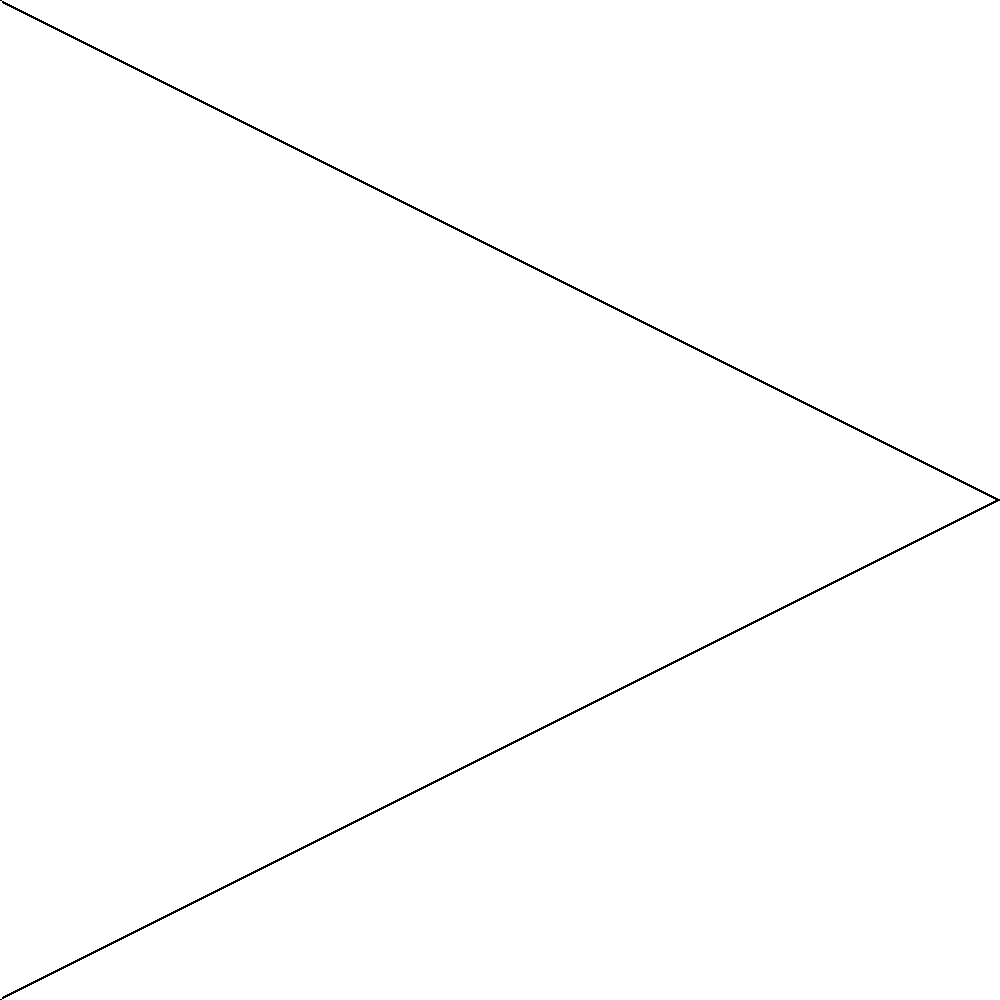
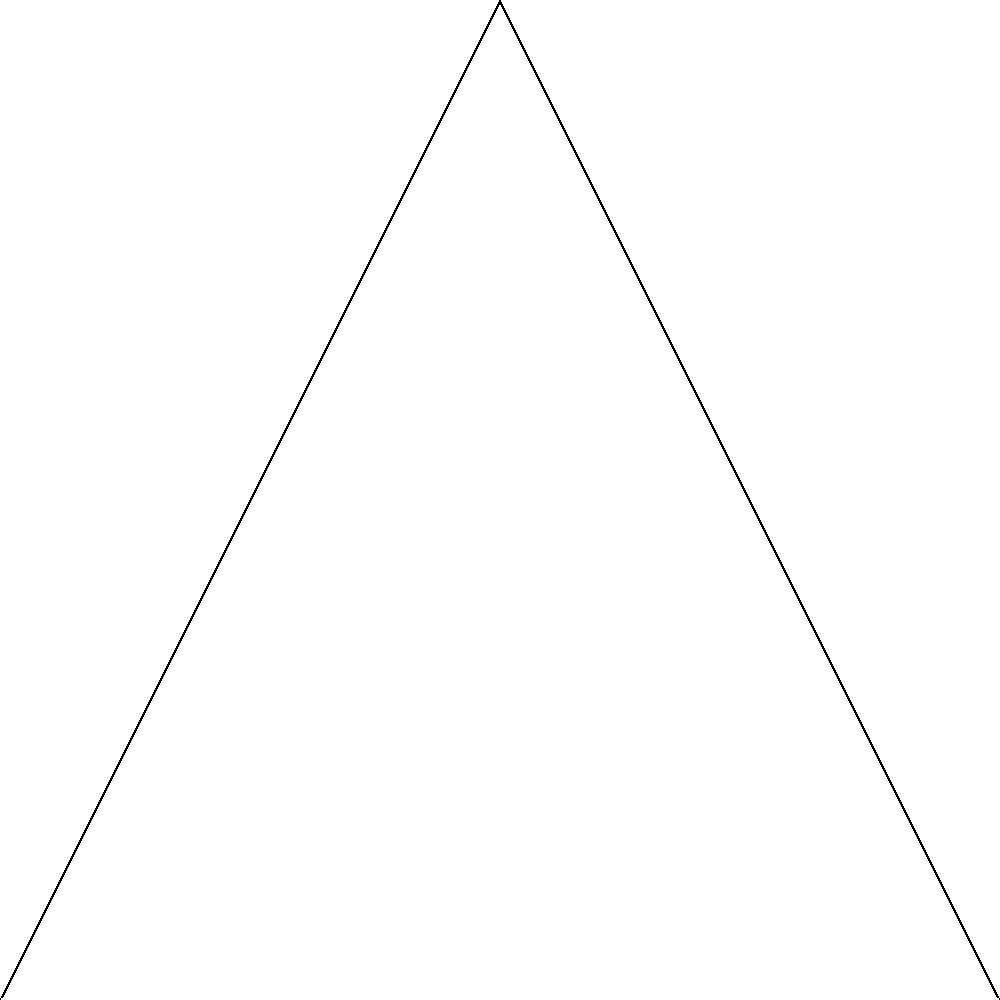
change orientation of sheet in pennon

diff --git a/app/resources/static/css/preview/pennon_20x30.css b/app/resources/static/css/preview/pennon_20x30.css
@@ -2,8 +2,8 @@
     box-sizing: initial;
 }
 .fb-container .page {
-    height: calc(30cm * 0.5);
-    width: calc(20cm * 0.5);
+    height: calc(20cm * 0.5);
+    width: calc(30cm * 0.5);
     border: 1px solid black;
     padding-left: calc(0.8cm * 0.5);
     padding-top: calc(0.8cm * 0.5);
@@ -13,17 +13,17 @@
 }
 .fb-container .photo {
     border: 1px solid black;
-    border-left: 1px solid transparent;
+    border-bottom: 1px solid transparent;
     float: left;
     box-sizing: border-box;
-    height: calc(14.5cm * 0.5);
-    width: calc(19.5cm * 0.5);
+    height: calc(19.5cm * 0.5);
+    width: calc(14.5cm * 0.5);
     padding-left: calc(1cm * 0.5);
     padding-right: calc(1cm * 0.5);
     padding-top: calc(1.15cm * 0.5);
 }
 .fb-container .fb-row .photo.vertical:nth-child(odd) {
-    margin-right: calc(2cm * 0.5);
+    margin-right: calc(0.2cm * 0.5);
 }
 .fb-container .fb-row:nth-child(odd) > .photo.horizontal {
     bottom: calc(0.2cm * 0.5);
@@ -33,9 +33,6 @@
 }
 
 .fb-container .image {
-    -webkit-transform: rotate(90deg);
-    transform: rotate(90deg);
-    float: right;
     height: calc(12.5cm * 0.5);
     width: calc(12.5cm * 0.5);
     background-size: cover;
@@ -44,9 +41,9 @@
 }
 
 .fb-container .triangle {
-    width: calc(4cm * 0.5);
-    height: calc(14.5cm * 0.5);
-    position: absolute;
-    top: calc(-0.05cm * 0.5);
-    left: calc(-0.05cm * 0.5);
+    height: calc(4cm * 0.5);
+    width: calc(14.5cm * 0.5);
+    position: relative;
+    top: calc(1.8cm * 0.5);
+    right: calc(1.06cm * 0.5);
 }

diff --git a/app/resources/static/css/print/pennon_20x30.css b/app/resources/static/css/print/pennon_20x30.css
@@ -1,6 +1,6 @@
 .page {
-    height: calc(30cm * 5);
-    width: calc(20cm * 5);
+    height: calc(20cm * 5);
+    width: calc(30cm * 5);
     border: 1px solid black;
     padding-left: calc(0.8cm * 5);
     padding-top: calc(0.8cm * 5);
@@ -8,17 +8,17 @@
 }
 .photo {
     border: 1px solid black;
-    border-left: 1px solid transparent;
+    border-bottom: 1px solid transparent;
     float: left;
     box-sizing: border-box;
-    height: calc(14.5cm * 5);
-    width: calc(19.5cm * 5);
+    height: calc(19.5cm * 5);
+    width: calc(14.5cm * 5);
     padding-left: calc(1cm * 5);
     padding-right: calc(1cm * 5);
     padding-top: calc(1.15cm * 5);
 }
 .fb-row .photo.vertical:nth-child(odd) {
-    margin-right: calc(2cm * 5);
+    margin-right: calc(0.2cm * 5);
 }
 .fb-row:nth-child(odd) > .photo.horizontal {
     bottom: calc(0.2cm * 5);
@@ -28,9 +28,6 @@
 }
 
 .image {
-    -webkit-transform: rotate(90deg);
-    transform: rotate(90deg);
-    float: right;
     height: calc(12.5cm * 5);
     width: calc(12.5cm * 5);
     background-size: cover;
@@ -39,9 +36,9 @@
 }
 
 .triangle {
-    width: calc(4cm * 5);
-    height: calc(14.5cm * 5);
-    position: absolute;
-    top: calc(-0.05cm * 5);
-    left: calc(-0.05cm * 5);
+    height: calc(4cm * 5);
+    width: calc(14.5cm * 5);
+    position: relative;
+    top: calc(1.85cm * 5);
+    right: calc(1cm * 5);
 }

diff --git a/app/resources/views/templates/pennon_template.html b/app/resources/views/templates/pennon_template.html
@@ -1,16 +1,16 @@
 <% pages.forEach(function(page, pageIndex){ %>
 <div id="page-<%= pageIndex %>" class="page">
+    <div class="fb-row">
     <% page.forEach(function(photo, photoIndex){ %>
-        <div class="fb-row">
-            <div id="photo-<%= pageIndex %>-<%= photoIndex %>" class="photo horizontal paper invert-controls">
-                <div class="image" style="background-image: url('photos/<%= photo %>');"></div>
-                <% if (preview) { %>
-                    <img class="triangle" src="img/triangle-preview.png">
-                <% } else { %>
-                    <img class="triangle" src="img/triangle.png">
-                <% } %>
-            </div>
+        <div id="photo-<%= pageIndex %>-<%= photoIndex %>" class="photo vertical paper">
+            <div class="image" style="background-image: url('photos/<%= photo %>');"></div>
+            <% if (preview) { %>
+                <img class="triangle" src="img/triangle-preview.png">
+            <% } else { %>
+                <img class="triangle" src="img/triangle.png">
+            <% } %>
         </div>
-    <% }); %>
+        <% }); %>
+    </div>
 </div>
 <% }); %>
